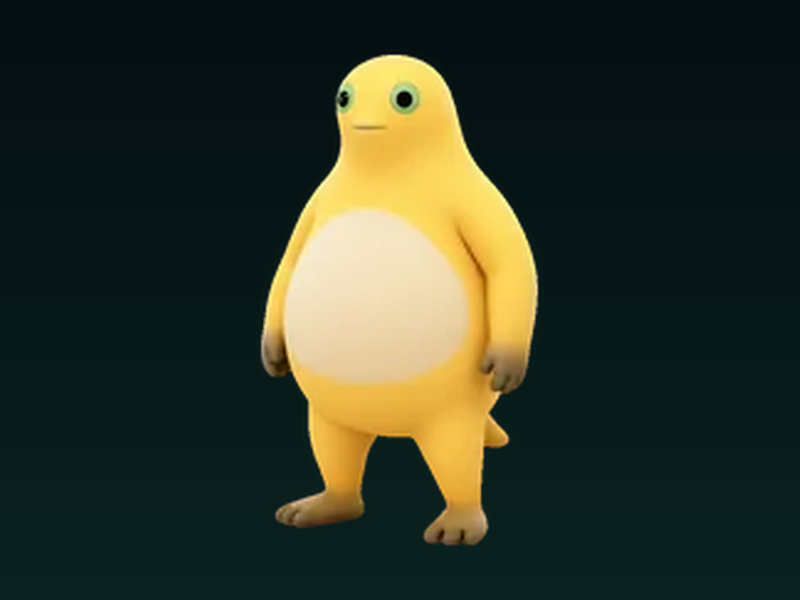
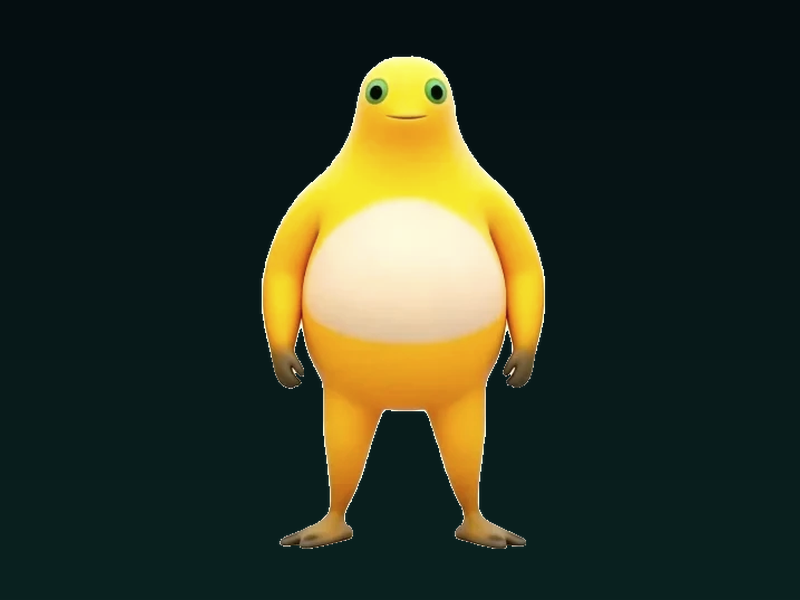
restore front-facing classic idle

Changed region(s): [[0.3125, 0.09, 0.6875, 0.93]]

diff --git a/src/assets/pets/index.ts b/src/assets/pets/index.ts
@@ -23,15 +23,6 @@ const CLASSIC_LAUGH_FRAMES = Object.keys(CLASSIC_LAUGH_MODULES)
   .map((key) => CLASSIC_LAUGH_MODULES[key]);
 const CLASSIC_HAPPY_FRAMES = CLASSIC_LAUGH_FRAMES;
 
-const CLASSIC_IDLE_MODULES = import.meta.glob(
-  "./classic/idle/*.png",
-  { eager: true, import: "default" },
-) as Record<string, string>;
-
-const CLASSIC_IDLE_FRAMES = Object.keys(CLASSIC_IDLE_MODULES)
-  .sort()
-  .map((key) => CLASSIC_IDLE_MODULES[key]);
-
 const CLASSIC_ACTION_MODULES = import.meta.glob(
   "./classic/actions/*/*.png",
   { eager: true, import: "default" },
@@ -47,9 +38,6 @@ for (const key of Object.keys(CLASSIC_ACTION_MODULES).sort()) {
     CLASSIC_ACTION_MODULES[key],
   );
 }
-
-const CLASSIC_IDLE_FALLBACK =
-  CLASSIC_IDLE_FRAMES.length > 0 ? CLASSIC_IDLE_FRAMES : [adultIdle];
 
 // The adult action stack is shared by all three art forms. ASCII has no
 // separate action drawings yet, so it reuses the closest existing pose.
@@ -129,14 +117,14 @@ export const PET_SKINS: readonly PetSkin[] = [
     credit:
       "Original Naiwa artwork; adult laugh frames from liaosongjie/Codex-Voice-Input (MIT); action frames from Nailong-Studio/NaiWa-Wallpaper",
     frames: {
-      idle: CLASSIC_IDLE_FALLBACK,
-      walk: CLASSIC_ACTION_FRAMES.walk ?? CLASSIC_IDLE_FALLBACK,
-      run: CLASSIC_ACTION_FRAMES.run ?? CLASSIC_IDLE_FALLBACK,
-      look: CLASSIC_ACTION_FRAMES.look ?? CLASSIC_IDLE_FALLBACK,
-      think: CLASSIC_ACTION_FRAMES.think ?? CLASSIC_IDLE_FALLBACK,
-      clap: CLASSIC_ACTION_FRAMES.clap ?? CLASSIC_IDLE_FALLBACK,
-      eat: CLASSIC_ACTION_FRAMES.eat ?? CLASSIC_IDLE_FALLBACK,
-      crouch: CLASSIC_ACTION_FRAMES.crouch ?? CLASSIC_IDLE_FALLBACK,
+      idle: [adultIdle],
+      walk: CLASSIC_ACTION_FRAMES.walk ?? [adultIdle],
+      run: CLASSIC_ACTION_FRAMES.run ?? [adultIdle],
+      look: CLASSIC_ACTION_FRAMES.look ?? [adultIdle],
+      think: CLASSIC_ACTION_FRAMES.think ?? [adultIdle],
+      clap: CLASSIC_ACTION_FRAMES.clap ?? [adultIdle],
+      eat: CLASSIC_ACTION_FRAMES.eat ?? [adultIdle],
+      crouch: CLASSIC_ACTION_FRAMES.crouch ?? [adultIdle],
       happy: CLASSIC_HAPPY_FRAMES,
       click: CLASSIC_HAPPY_FRAMES,
       wave: [adultWave],
@@ -150,7 +138,6 @@ export const PET_SKINS: readonly PetSkin[] = [
     },
     frameIntervalMs: 90,
     frameIntervalMsByState: {
-      idle: 260,
       walk: 140,
       run: 90,
       look: 220,

diff --git a/DEVELOPMENT.md b/DEVELOPMENT.md
@@ -125,7 +125,7 @@ CyberNaiwa/
 - 原色赛博帧在 `naiwa-frames.json` / `naiwa-baby-frames.json`：112 列 × 70 行；量子赛博帧在 `naiwa-cyber-frames.json` / `naiwa-cyber-baby-frames.json`：128 列 × 80 行。用 `.` 表示透明格。帧由官方设计资料库的成年 / 幼体 / 大笑 / 挥手参考图逐像素映射到字符 tone；仓库不包含参考图片本身。
 - 幼体挥手源图裁切框从 `X=365/W=270` 改为 `X=310/W=285`：原框正好从 V 字手中间切过，导致手指缺失；新框完整包住中间幼体的抬手，112×70 与 128×80 两套网格都已重新采样。
 - `PetAnimation` 根据 `settings.palette` 选择帧组：`original` 走 `frames` / `babyFrames`，`cyber` 走 `cyberFrames` / `cyberBabyFrames`，`classic` 直接切到图片皮肤 `naiwa-classic`。ASCII JSON 仍只有 5 个基础动作的帧；`index.ts` 把 run/look/think/clap/eat/crouch 映射到最接近的现有姿态（run=walk、look/think=idle、clap=wave、eat=idle、crouch=wave），并让 HUD、语音、时长保持独立。幼体不使用新动作；左键动作栈永远不引用 happy/click。
-- 奶家经典图片皮肤：成年 idle 用 `classic/idle/00–05.png`（Nailong-Studio MIT 待机逐帧，180×210、底部 y=204，和走/跑等动作同一套画风；旧调亮长腿 `adult-idle-aligned.png` 仅作回退），wave/扎马步用 `adult-wave.png`，happy/click 用 `laugh-hd/000–024.webp`（524×720，90ms/帧，来自 1080×1474 原片 6.5–8.75s 抽 25 帧，去白底/地面阴影/胯下白块，3% padding，Lanczos 缩到 720 高，不锐化）；walk/run/look/think/clap/crouch 用 `classic/actions/<state>/` 的逐帧 PNG，`eat` 保留但不接入左键栈。动作帧统一补齐到 180×210 画布、底部对齐到 y=204（6px 底边距），所以脚和膝盖不会被裁。幼体 idle/walk、happy/click、wave 各用一张原画。`laugh/` 保留 180×180 的 MIT 原始帧，`laugh-cropped/` 是紧裁中间帧，`laugh-hires/` 是 648×888 的 6× 回退放大版；当前产品路径是 `laugh-hd`。
+- 奶家经典图片皮肤：成年 idle 默认用**正面** `adult-idle-aligned.png`（官方正面站立，×1.09 亮度、×0.80 色彩对齐动作帧）；`classic/idle/00–05.png` 是 Nailong 的 3/4 侧身待机备选，会斜着站，不作为默认。wave/扎马步用 `adult-wave.png`，happy/click 用 `laugh-hd/000–024.webp`（524×720，90ms/帧，来自 1080×1474 原片 6.5–8.75s 抽 25 帧，去白底/地面阴影/胯下白块，3% padding，Lanczos 缩到 720 高，不锐化）；walk/run/look/think/clap/crouch 用 `classic/actions/<state>/` 的逐帧 PNG，`eat` 保留但不接入左键栈。动作帧统一补齐到 180×210 画布、底部对齐到 y=204（6px 底边距），所以脚和膝盖不会被裁。幼体 idle/walk、happy/click、wave 各用一张原画。`laugh/` 保留 180×180 的 MIT 原始帧，`laugh-cropped/` 是紧裁中间帧，`laugh-hires/` 是 648×888 的 6× 回退放大版；当前产品路径是 `laugh-hd`。
 - HUD 渲染规则：`Pet.tsx` 只在 `settings.palette !== "classic"` 时渲染 `NAIWA//STATE`；原色赛博用暖黄 `rgba(255,216,77,0.62)` + 黄点，量子赛博沿用蓝色 `rgba(126,249,255,0.6)` + 青点，奶家经典不渲染 HUD。设置页不再有「桌宠标签」开关，`hudEnabled` 从 `PetSettings` 移除。
 - 图片尺寸用 `height: 78vh; width: auto`，不是 `max-height`：原图小于窗口时也会放大。图片底部对齐 stage 内容底边，保留 22px 底部 padding；成年待机和动作的角色高约 280px，47 张动作帧的 alpha 最外像素距画布边缘至少 6px，映射到窗口后脚底距底边约 30px。
 - 奶家经典每个动作的帧间隔由 `frameIntervalMsByState` 控制；happy/click 仍用全局 `frameIntervalMs: 90`。
@@ -274,4 +274,5 @@ cargo check --manifest-path src-tauri/Cargo.toml
 - 2026-11-16 add an always-visible top-right gear button for Settings (middle-click still works and is explained as pressing the scroll wheel), and fix the ASCII action aliases so clap/eat never reuse the laugh frames; the left-click stack now only uses wave/idle/walk poses and right-click remains the sole laugh trigger.
 - 2026-11-16 brighten the classic standing artwork (`adult-idle-aligned.png`, ×1.09 brightness / ×0.80 colour) to match the action frames, remove the persisted HUD toggle and the settings row, and derive HUD visibility/colour from the palette: Original warm yellow, Quantum blue, Classic hidden.
 - 2026-11-16 replace the classic adult standing pose with the six Nailong-Studio MIT idle frames (`classic/idle/00–05.png`, 180×210, 6px bottom) so its colour/art style matches walk/run; make the settings gear appear only while hovering the pet; remove the white crotch gap from all 25 high-res laugh frames; drop `eat` from the left-click stack because its head-back open mouth reads as a laugh.
+- 2026-11-16 restore the front-facing official standing art (`adult-idle-aligned.png`) as the default classic idle after the 3/4 Nailong idle looked diagonal; keep `classic/idle/00–05.png` as an alternate only. The front pose keeps the ×1.09 brightness / ×0.80 colour alignment, and the leg/feet bounds are unchanged.
 - 2026-11-16 bump to 0.2.1 and replace `docs/settings.png` with the 赛博奶蛙 settings screenshot (原色模式/量子模式, no sleep copy, version 0.2.1).

diff --git a/README.en.md b/README.en.md
@@ -139,7 +139,7 @@ Two keys live in that file: `settings` (always-on-top, scale, animation, sound, 
 
 The default `cyber-naiwa` skin stores Original Cyber adult/baby frames in `naiwa-frames.json` and `naiwa-baby-frames.json` (112×70), and Quantum Cyber adult/baby frames in `naiwa-cyber-frames.json` and `naiwa-cyber-baby-frames.json` (128×80). Each set covers five base poses; adult happy/click use 25 frames each, other base states use two, and the baby uses two per state. The extra adult actions (run/look/think/clap/eat/crouch) are registered in `index.ts` as aliases of the closest base pose, with their own HUD labels, timing and durations. `frames.ts` maps characters to colour tones and declares frame timing. The 25 adult laugh frames come from [liaosongjie/Codex-Voice-Input](https://github.com/liaosongjie/Codex-Voice-Input)'s MIT animation frames (fixed-crop conversion to ASCII); the other grids were pixel-mapped from the official design database's adult, juvenile, laugh, and wave references. No ASCII reference image files themselves are shipped in the repo. The app icon is taken from the baby's Original Cyber ASCII idle frame instead of being drawn separately.
 
-The `naiwa-classic` skin lives in `src/assets/pets/classic/`: adult idle uses `classic/idle/00–05.png`, the Nailong-Studio MIT idle frames, so the standing pose has the same colour and art style as walk/run/look/etc.; the old brightened tall idle (`adult-idle-aligned.png`) stays as a fallback/reference. Adult wave and all three baby states are transparent cut-outs of the official design reference sheets; adult happy/click uses `classic/laugh-hd/000–024.webp`, extracted from the 1080×1474 `naiwa-laugh.mp4` at 6.5–8.75 s. The 25 frames have their white background, floor shadow, and white crotch gap removed, keep 3% padding, and are Lanczos-downscaled to 524×720 with no sharpening at 90 ms each. `classic/laugh/` keeps the original 180×180 MIT frames and `classic/laugh-hires/` keeps the 648×888 6× upscale fallback. The video source has no explicit redistribution licence in `SOURCES.md`; the project owner approved its fan-use inclusion, and the skin can switch back to `laugh-hires` if needed. Action frames use `classic/actions/<action>/` padded to 180×210 with a 6 px bottom margin; the eating frames stay in the library but are not wired to left-click because the open-mouth pose reads as a laugh. Images scale to the window height so the body stays about 280 px and the feet stay visible. The cut-out/upscale scripts are `_qa/make-classic-cutouts.ps1`, `_qa/crop-classic-laugh.ps1`, `_qa/upscale-classic-laugh.py`, `_qa/build-hd-laugh.py`, `_qa/build-classic-actions.py`, and `_qa/build-classic-idle.py` (`_qa/` is not committed). This is fan-made, non-commercial use; source and licence notes are in `_qa/reference/official/laugh/SOURCES.md`.
+The `naiwa-classic` skin lives in `src/assets/pets/classic/`: adult idle defaults to the **front-facing** `adult-idle-aligned.png` (official front standing art, ×1.09 brightness and ×0.80 colour to match the action frames' luminance/saturation), with the legs and feet fully inside the window. The Nailong `classic/idle/00–05.png` frames are a 3/4 side-facing alternative and are not the default standing pose. Adult wave and all three baby states are transparent cut-outs of the official design reference sheets; adult happy/click uses `classic/laugh-hd/000–024.webp`, extracted from the 1080×1474 `naiwa-laugh.mp4` at 6.5–8.75 s. The 25 frames have their white background, floor shadow, and white crotch gap removed, keep 3% padding, and are Lanczos-downscaled to 524×720 with no sharpening at 90 ms each. `classic/laugh/` keeps the original 180×180 MIT frames and `classic/laugh-hires/` keeps the 648×888 6× upscale fallback. The video source has no explicit redistribution licence in `SOURCES.md`; the project owner approved its fan-use inclusion, and the skin can switch back to `laugh-hires` if needed. Action frames use `classic/actions/<action>/` padded to 180×210 with a 6 px bottom margin; the eating frames stay in the library but are not wired to left-click because the open-mouth pose reads as a laugh. Images scale to the window height so the body stays about 280 px and the feet stay visible. The cut-out/upscale scripts are `_qa/make-classic-cutouts.ps1`, `_qa/crop-classic-laugh.ps1`, `_qa/upscale-classic-laugh.py`, `_qa/build-hd-laugh.py`, `_qa/build-classic-actions.py`, and `_qa/build-classic-idle.py` (`_qa/` is not committed). This is fan-made, non-commercial use; source and licence notes are in `_qa/reference/official/laugh/SOURCES.md`.
 
 Want to try a PNG/WEBP/GIF skin? `src/assets/pets/README.md` shows how to register an `ImagePetSkin`. The renderer already handles both ASCII and image sequences. Please only add art you have the right to redistribute.
 

diff --git a/README.md b/README.md
@@ -139,7 +139,7 @@ pnpm tauri build --bundles dmg
 
 默认 ASCII 角色 `cyber-naiwa` 的原色赛博成年帧在 `src/assets/pets/cyber-naiwa/naiwa-frames.json`，幼体帧在 `naiwa-baby-frames.json`（112×70）；量子赛博成年/幼体帧在 `naiwa-cyber-frames.json`、`naiwa-cyber-baby-frames.json`（128×80）。现有帧覆盖 idle / walk / happy / click / wave；成年 happy/click 各 25 帧，其余状态每态 2 帧；幼体每态 2 帧。新增的 run / look / think / clap / eat / crouch 在 `src/assets/pets/index.ts` 复用最接近的现有 ASCII 姿态，但保留独立 HUD 标签、帧间隔和动作时长。字符 tone、帧间隔和渲染逻辑在 `frames.ts`。成年大笑的 25 帧来自 [liaosongjie/Codex-Voice-Input](https://github.com/liaosongjie/Codex-Voice-Input) 的 MIT 动画帧（固定取景后转成 ASCII）；其余帧由官方设计资料库中的成年 / 幼体 / 大笑 / 挥手参考图逐像素映射生成，ASCII 帧的参考图片本身不入库。应用图标取自幼体原色赛博 ASCII 待机帧，不再单独绘制。
 
-奶家经典皮肤 `naiwa-classic` 在 `src/assets/pets/classic/`：成年待机使用 `classic/idle/00–05.png`，来自 [Nailong-Studio/NaiWa-Wallpaper](https://github.com/Nailong-Studio/NaiWa-Wallpaper) 的 MIT 待机逐帧，和走/跑/张望等动作同一套画风；统一补齐到 180×210、底部留 6px，脚和膝盖完整。旧的调亮长腿站立 `adult-idle-aligned.png` 保留为回退/参考。成年挥手和幼体三态是官方设计参考图的透明抠图；成年 happy/click 使用 `classic/laugh-hd/000–024.webp`，从 1080×1474 的 `naiwa-laugh.mp4` 6.5–8.75 秒抽 25 帧，去掉白底、地面阴影和胯下白块，统一留 3% 边距后 Lanczos 缩到 524×720，不做锐化，90ms/帧。`classic/laugh/` 保留原始 180×180 MIT 帧，`classic/laugh-hires/` 保留 648×888 的 6× 放大回退版；视频源的再分发许可记录不完整，已按项目所有者确认作为粉丝二创使用，必要时可切回 `laugh-hires`。走、跑、张望、思考、鼓掌、蹲伏使用 `classic/actions/<action>/` 的逐帧原画，来自 Nailong-Studio 的 MIT 素材，统一补齐到 180×210 画布、底部留 6px，所以脚和膝盖不会被窗口裁掉；`进食` 帧保留在素材里，但因为张嘴仰头太像大笑，暂不接入左键动作栈。图片按窗口高度缩放，成年待机和动作的身体高度约 280px。抠图/放大/补帧脚本是 `_qa/make-classic-cutouts.ps1`、`_qa/crop-classic-laugh.ps1`、`_qa/upscale-classic-laugh.py`、`_qa/build-hd-laugh.py`、`_qa/build-classic-actions.py` 和 `_qa/build-classic-idle.py`（`_qa/` 不入库）。这部分是粉丝二创非商业使用，来源与授权说明见 `_qa/reference/official/laugh/SOURCES.md`。
+奶家经典皮肤 `naiwa-classic` 在 `src/assets/pets/classic/`：成年待机默认使用**正面** `adult-idle-aligned.png`（官方正面站立，×1.09 亮度、×0.80 色彩，向动作帧的明度/饱和度对齐），脚和腿完整落在窗口内。Nailong 的 `classic/idle/00–05.png` 是 3/4 侧身待机备选，画面会斜着站，所以不作为默认站立。成年挥手和幼体三态是官方设计参考图的透明抠图；成年 happy/click 使用 `classic/laugh-hd/000–024.webp`，从 1080×1474 的 `naiwa-laugh.mp4` 6.5–8.75 秒抽 25 帧，去掉白底、地面阴影和胯下白块，统一留 3% 边距后 Lanczos 缩到 524×720，不做锐化，90ms/帧。`classic/laugh/` 保留原始 180×180 MIT 帧，`classic/laugh-hires/` 保留 648×888 的 6× 放大回退版；视频源的再分发许可记录不完整，已按项目所有者确认作为粉丝二创使用，必要时可切回 `laugh-hires`。走、跑、张望、思考、鼓掌、蹲伏使用 `classic/actions/<action>/` 的逐帧原画，来自 Nailong-Studio 的 MIT 素材，统一补齐到 180×210 画布、底部留 6px，所以脚和膝盖不会被窗口裁掉；`进食` 帧保留在素材里，但因为张嘴仰头太像大笑，暂不接入左键动作栈。图片按窗口高度缩放，成年待机和动作的身体高度约 280px。抠图/放大/补帧脚本是 `_qa/make-classic-cutouts.ps1`、`_qa/crop-classic-laugh.ps1`、`_qa/upscale-classic-laugh.py`、`_qa/build-hd-laugh.py`、`_qa/build-classic-actions.py` 和 `_qa/build-classic-idle.py`（`_qa/` 不入库）。这部分是粉丝二创非商业使用，来源与授权说明见 `_qa/reference/official/laugh/SOURCES.md`。
 
 想换成 PNG/WEBP/GIF 皮肤时，按 `src/assets/pets/README.md` 的说明注册 `ImagePetSkin` 即可，渲染器同时支持 ASCII 和图片序列。请不要提交没有 redistribution 权限的素材。
 

diff --git a/design-qa.md b/design-qa.md
@@ -220,6 +220,12 @@
 - 用户反馈大笑胯部有空白白块。25 帧合成到深色背景后确认：两腿/胯下的白底是封闭区域，边缘灌水到不了，身体保护又把它留下。新增下半身 `brightness > 235 & saturation < 20` 清理规则，25 帧全部重抠；深色审计图 `_qa/art/laugh-hd-audit-dark-fixed.png` 中白块消失，脚和腿完整。
 - 截图：`_qa/art/classic-idle-frames.png`、`_qa/art/classic-idle-nailong.png`、`_qa/art/classic-laugh-crotch-fixed-dark.png`。`pnpm build` 通过。
 
+## 2026-11-16 — Phase 27：恢复正面站立
+
+- 用户反馈经典站立变成斜着站，问有没有正面站立。Nailong `待机` 6 帧都是 3/4 侧身；同画风没有正面桌宠待机。
+- 恢复正面官方站立 `adult-idle-aligned.png` 为默认经典 idle（×1.09 亮度、×0.80 色彩，腿部/脚部完整）；Nailong 的 `classic/idle/00–05.png` 保留为 3/4 侧身备选，不再作为默认。
+- `docs/preview-classic.png` 改回正面站立，HUD 仍隐藏；`pnpm build` 通过。
+
 ## 待人工确认
 
 - 托盘菜单的物理点击仍需在桌面通知区实际点一遍；窗口 show/hide/设置/退出逻辑已实现。

diff --git a/src/assets/pets/README.md b/src/assets/pets/README.md
@@ -21,9 +21,12 @@ duration still come from the real state, and the baby never uses these aliases.
 ## Classic skin
 
 `naiwa-classic` is an `ImagePetSkin` using the cut-out original artwork in
-`classic/`: adult idle uses `classic/idle/00`–`05.png` from the Nailong-Studio
-MIT idle sequence, so the standing pose shares the colour/art style of the
-action frames. Wave and baby idle/happy/wave remain single cut-out PNGs. The
+`classic/`: adult idle defaults to the front-facing
+`adult-idle-aligned.png` (the original tall front pose with ×1.09 brightness /
+×0.80 colour to match the action frames). `classic/idle/00`–`05.png` keeps the
+Nailong 3/4 side-facing idle frames as an alternative, but they are not the
+default because the character stands diagonally. Wave and baby idle/happy/wave
+remain single cut-out PNGs. The
 adult happy/click sequence is `classic/laugh-hd/000`–`024.webp` at 90 ms per
 frame: 25 frames from the 1080×1474 `naiwa-laugh.mp4` at 6.5–8.75 s, with the
 white background, floor shadow, and white crotch gap removed, 3% padding and
